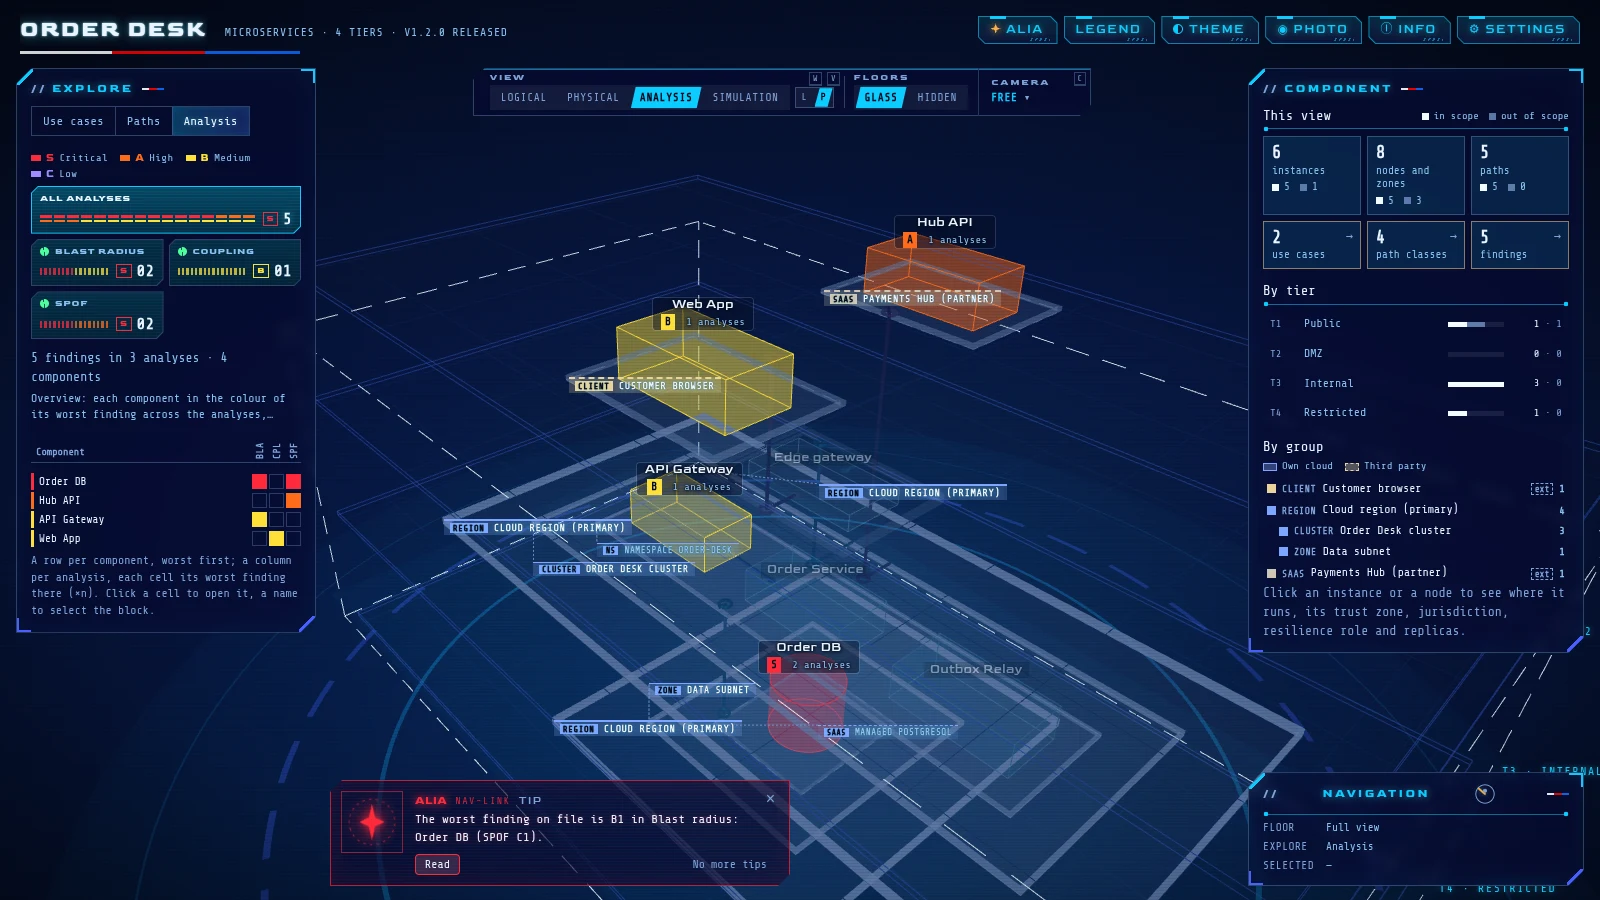
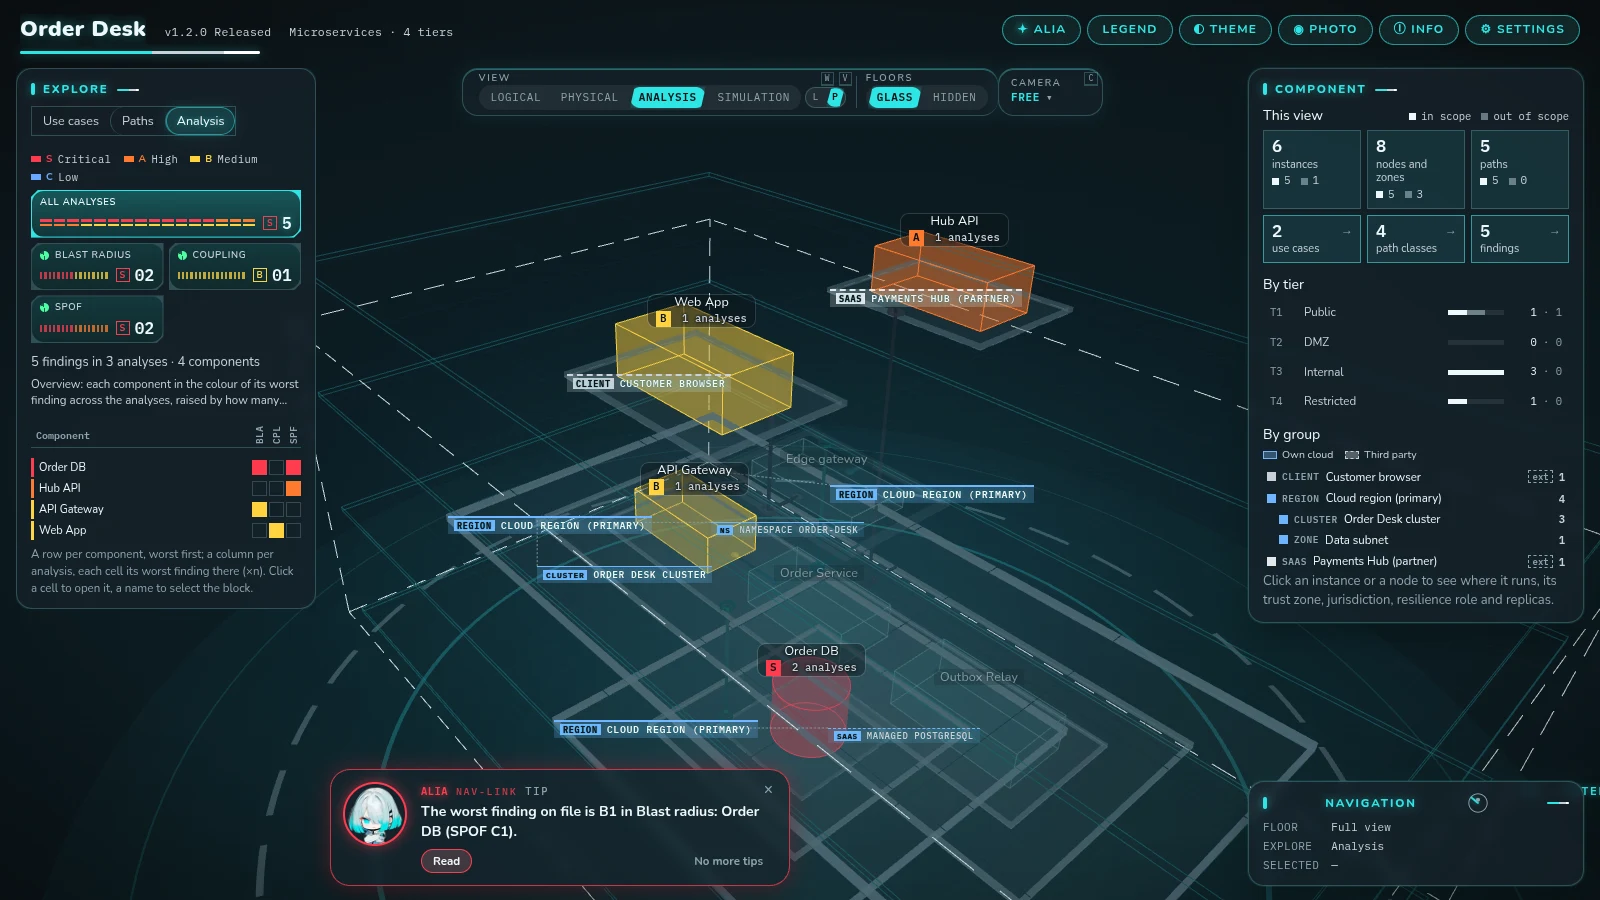
docs: the command center shots retaken in the alia skin, holo beside atlas and corporate, Alia's moods in the Alia guide; the capture recipe declares no pack
Claude-Session: https://claude.ai/code/session_01LqHQShDWuEhEn5iFjgM7SY

diff --git a/docs/ALIA.md b/docs/ALIA.md
@@ -16,7 +16,7 @@ synthetic order-taking system with a container named **Hub API**.
 
 ![The Logical view: a floor per layer, a block per container, the "Place an order" use case lit phase by phase](images/command-center/logical.webp)
 
-*The synthetic Order Desk example in the `holo` skin — the Logical view, walking the "Place an order" use case.*
+*The synthetic Order Desk example in the `alia` skin, the default — the Logical view, walking the "Place an order" use case, Alia's tip in the codec.*
 
 ## What it renders
 
@@ -96,7 +96,7 @@ view ring gains **Analysis**, with one entry per report.
   drawn hollow. The rail filters by severity and by *Open · Mitigated*.
 - Selecting a block stacks its findings as flags over it (up to eight, then `+N`); each opens the finding in Alia.
 - Findings that name no container (a process, a missing control) stay in the list, marked with a dash.
-- `holo` ranks findings `LV S · A · B · C · D`; `atlas` and `corporate` state priorities `P1 … P5`.
+- `alia` and `holo` rank findings `LV S · A · B · C · D`; `atlas` and `corporate` state priorities `P1 … P5`.
 
 ## Simulation mode — load against capacity
 
@@ -183,13 +183,15 @@ on the stage. Her voice (browser speech synthesis) is off until switched on in S
 
 ## Skins
 
-| `atlas` | `corporate` |
-|---|---|
-| ![The atlas skin](images/command-center/atlas.webp) | ![The corporate skin](images/command-center/corporate.webp) |
+| `holo` | `atlas` | `corporate` |
+|---|---|---|
+| ![The holo skin](images/command-center/holo.webp) | ![The atlas skin](images/command-center/atlas.webp) | ![The corporate skin](images/command-center/corporate.webp) |
+
+Every other shot on this page is the default, `alia`.
 
 | Skin | Look |
 |---|---|
-| `alia` (default) | Alia's hologram on night: aqua and silver blocks, round frosted panels, her face in the codec and the Alia dialog, changing with her mood. Dark only |
+| `alia` (default) | Alia's hologram on night: aqua and silver blocks, round frosted panels, her face in the codec and the Alia dialog — one face per mood (calm, thinking, pleased, worried, stern), talking while a calm, thinking or pleased line types. Game ranks. Dark only |
 | `holo` | Retro sci-fi hologram: self-lit cyan blocks over an indigo grid, game ranks. Dark only |
 | `atlas` | Neutral and formal, IBM Plex, priorities. Light and dark |
 | `corporate` | Neutral business palette, slate and teal, rounded cards. Light only; the base to copy for a brand |

diff --git a/scripts/docs-screenshots/README.md b/scripts/docs-screenshots/README.md
@@ -7,16 +7,18 @@ Capacity tables, a demand row and three small analysis reports so that Analysis 
 SKILL=plugins/sa-visualization/skills/architecture-command-center
 OUT=$(mktemp -d)
 bun scripts/docs-screenshots/build-showcase.ts $PWD/$SKILL $OUT/proj
+bun scripts/shared/packs.js --declare none --project $OUT/proj   # the plugin's own skins, whatever packs this machine has
 SCENE=$OUT/proj/visualizations/architecture-command-center.scene.json
 bun $SKILL/scripts/scene-from-docs.js $OUT/proj --base $SCENE --out $SCENE
 bun $SKILL/scripts/dossier.js $OUT/proj $SCENE --write
 bun $SKILL/scripts/render.js $SCENE $OUT/showcase.html
+bun $SKILL/scripts/render.js $SCENE $OUT/showcase-holo.html --theme holo
 bun $SKILL/scripts/render.js $SCENE $OUT/showcase-atlas.html --theme atlas
 bun $SKILL/scripts/render.js $SCENE $OUT/showcase-corporate.html --theme corporate
 # a Chrome binary, e.g. Puppeteer's: bunx puppeteer browsers install chrome
 bun scripts/docs-screenshots/capture.ts <chrome> docs/images/command-center \
   "$OUT/showcase.html::logical=;physical=v;analysis=v;simulation=v" "$OUT/showcase.html::alia=a" \
-  "$OUT/showcase-atlas.html::atlas=" "$OUT/showcase-corporate.html::corporate="
+  "$OUT/showcase-holo.html::holo=" "$OUT/showcase-atlas.html::atlas=" "$OUT/showcase-corporate.html::corporate="
 ```
 
 `capture.ts` drives headless Chrome over the DevTools protocol with real key presses (`v` cycles the views, `a` opens
